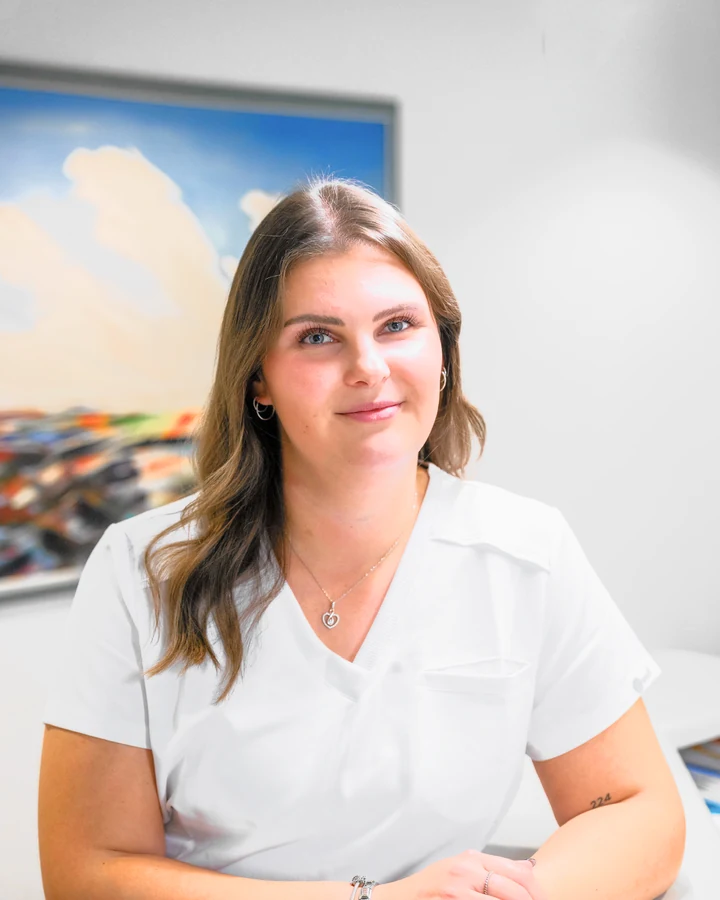
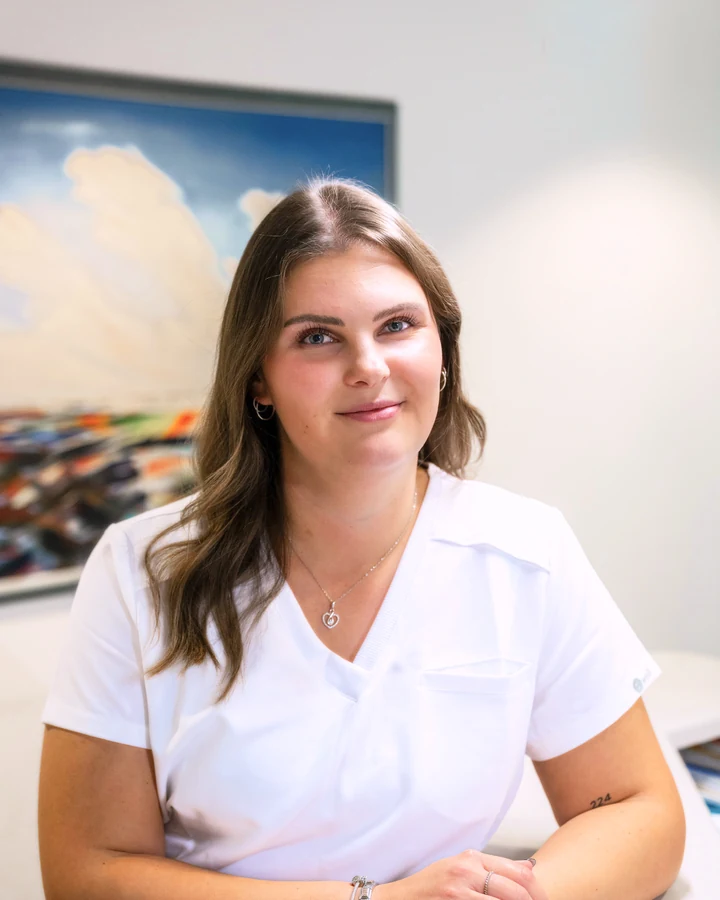
Team: Foto Caroline in der von Ilyas aufgehellten Fassung
- Quelle: image12306_Caro_aufgehellt.jpg (von Ilyas bearbeitet), gleicher
  4:5-Ausschnitt wie bisher, 720x900 WebP
- caroline.webp?v=5 in DE und EN

Changed region(s): [[0.0, 0.0622, 0.6722, 0.7778], [0.0, 0.7778, 1.0, 1.0]]

diff --git a/public/index.html b/public/index.html
@@ -504,7 +504,7 @@
 
       <div id="carousel-team" class="team-carousel carousel flex gap-6 lg:gap-7 overflow-x-auto px-5 sm:px-8 -mx-5 sm:-mx-8 py-5 cursor-grab select-none">
         <figure class="shrink-0 w-[64%] sm:w-[40%] lg:w-[30%] rounded-2xl bg-sage-50 border border-sage-100 overflow-hidden">
-          <div class="img-slot aspect-[4/5]"><span class="slot-label">Porträt · Caroline R.</span><img src="assets/team/caroline.webp?v=4" alt="Caroline Rzesnitzek" loading="lazy" onerror="this.style.display='none'" /></div>
+          <div class="img-slot aspect-[4/5]"><span class="slot-label">Porträt · Caroline R.</span><img src="assets/team/caroline.webp?v=5" alt="Caroline Rzesnitzek" loading="lazy" onerror="this.style.display='none'" /></div>
           <figcaption class="p-4 sm:p-5"><h4 class="font-serif text-lg sm:text-xl text-ink">Caroline Rzesnitzek</h4><p class="mt-1.5 text-sage-600 font-medium">Anmeldung</p></figcaption>
         </figure>
 

diff --git a/public/index-en.html b/public/index-en.html
@@ -505,7 +505,7 @@
 
       <div id="carousel-team" class="team-carousel carousel flex gap-6 lg:gap-7 overflow-x-auto px-5 sm:px-8 -mx-5 sm:-mx-8 py-5 cursor-grab select-none">
         <figure class="shrink-0 w-[64%] sm:w-[40%] lg:w-[30%] rounded-2xl bg-sage-50 border border-sage-100 overflow-hidden">
-          <div class="img-slot aspect-[4/5]"><span class="slot-label">Portrait ·Caroline R.</span><img src="assets/team/caroline.webp?v=4" alt="Caroline Rzesnitzek" loading="lazy" onerror="this.style.display='none'" /></div>
+          <div class="img-slot aspect-[4/5]"><span class="slot-label">Portrait ·Caroline R.</span><img src="assets/team/caroline.webp?v=5" alt="Caroline Rzesnitzek" loading="lazy" onerror="this.style.display='none'" /></div>
           <figcaption class="p-4 sm:p-5"><h4 class="font-serif text-lg sm:text-xl text-ink">Caroline Rzesnitzek</h4><p class="mt-1.5 text-sage-600 font-medium">Reception</p></figcaption>
         </figure>
 
